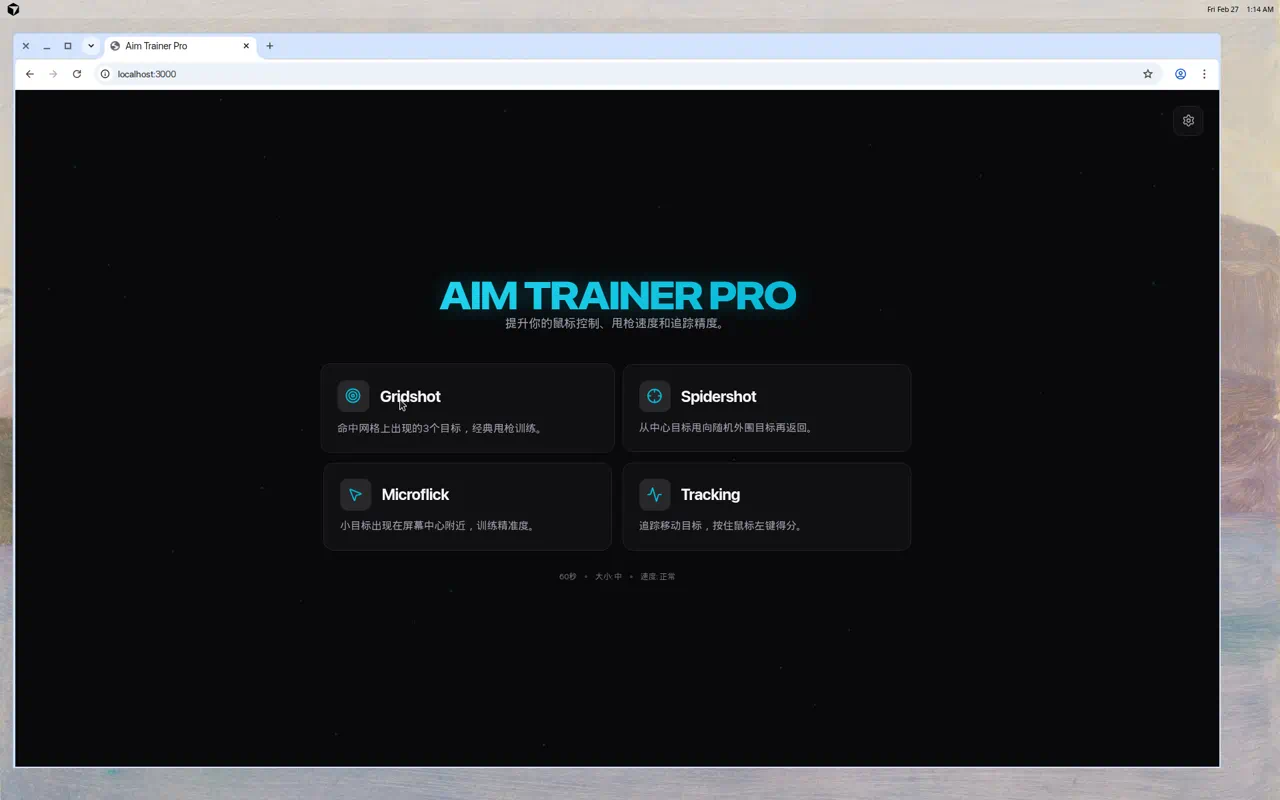
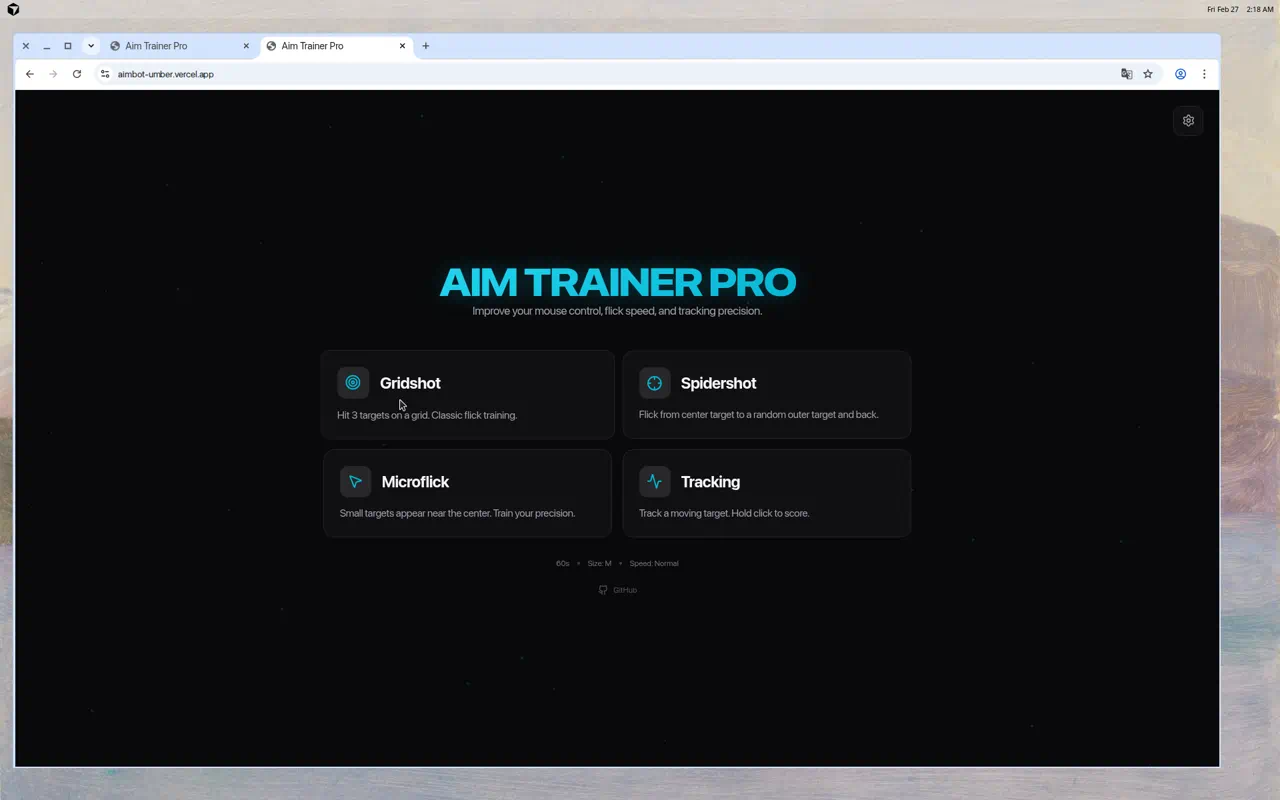
docs: 更新 README — 添加 FPS 3D 地图/准星截图，补充在线体验链接
- 用最新截图替换所有旧截图（从 Vercel 线上版截取）
- 新增 FPS 3D 模式、5 张地图、准星自定义、灵敏度的介绍
- 新增竞技场/霓虹地图对比截图、FPS 3D 设置面板截图
- 新增中英文界面对比截图
- 添加在线体验链接 aimbot-umber.vercel.app
- 更新技术栈（添加 Three.js）和项目结构（添加新文件）
- 添加 Star 呼吁

diff --git a/README.md b/README.md
@@ -2,11 +2,13 @@
 
 # 🎯 Aim Trainer Pro
 
-**一款高性能、高度可定制的网页端鼠标瞄准训练器**
+**高性能、高度可定制的网页端鼠标瞄准训练器**
 
 提升你的鼠标控制、甩枪速度和追踪精度。
 
-React + TypeScript + Vite + Tailwind CSS + Canvas
+React + TypeScript + Vite + Three.js + Canvas
+
+[🎮 在线体验](https://aimbot-umber.vercel.app/) · [📦 GitHub](https://github.com/DanZai233/AIMBOT)
 
 </div>
 
@@ -16,7 +18,7 @@ React + TypeScript + Vite + Tailwind CSS + Canvas
 
 ## ✨ 功能特性
 
-### 🎮 四种训练模式
+### 🎮 五种训练模式
 
 | 模式 | 说明 |
 |------|------|
@@ -24,6 +26,43 @@ React + TypeScript + Vite + Tailwind CSS + Canvas
 | **Spidershot** | 从中心目标甩向随机外围目标再返回 |
 | **Microflick** | 小目标出现在屏幕中心附近，训练微调精度 |
 | **Tracking** | 追踪移动目标，按住鼠标左键持续得分 |
+| **FPS 3D** 🆕 | 真实 FPS 视角，准星固定，移动视角瞄准 3D 空间中的目标 |
+
+### 🕹 FPS 3D 模式
+
+真正的第一人称射击视角 —— 使用 Three.js + Pointer Lock API，准星锁定在屏幕中心，鼠标移动旋转视角。
+
+**5 张 3D 地图：**
+
+| 地图 | 说明 |
+|------|------|
+| **虚空 (Void)** | 暗色虚空 + 网格地面 + 漂浮尘埃 |
+| **竞技场 (Arena)** | 封闭室内训练场 + 墙壁/天花板/柱子 |
+| **赛博 (Cyber)** | 霓虹城市废墟 + 建筑剪影 + 金属地面 |
+| **户外 (Outdoor)** | 蓝天绿地 + 远山剪影 + 石柱靶场 |
+| **霓虹 (Neon)** | 暗室 + 多彩霓虹光管 + 反射地面 |
+
+<div align="center">
+<table>
+<tr>
+<td><img src="docs/screenshots/fps3d-arena.webp" alt="竞技场地图" width="100%"/></td>
+<td><img src="docs/screenshots/fps3d-neon.webp" alt="霓虹地图" width="100%"/></td>
+</tr>
+<tr>
+<td align="center"><b>竞技场 · 封闭室内</b></td>
+<td align="center"><b>霓虹 · 多彩光管</b></td>
+</tr>
+</table>
+</div>
+
+**准星自定义：**
+
+- 5 种样式：十字 / 圆点 / 圆环 / 十字+点 / T 形
+- 6 项微调：粗细 / 上下间距 / 左右间距 / 线长 / 不透明度 / 中心点大小
+- 灵敏度：0.1x ~ 5.0x 可调
+- 设置面板内实时预览
+
+![FPS 3D 设置](docs/screenshots/settings-fps3d.webp)
 
 ### ⚙ 丰富的配置项
 
@@ -35,10 +74,10 @@ React + TypeScript + Vite + Tailwind CSS + Canvas
 
 ![设置面板](docs/screenshots/settings-panel.webp)
 
-### 🎨 个性化定制
+### 🎨 个性化定制（2D 模式）
 
 - **目标形状**：圆形 / 菱形 / 星形 / 六边形 / 三角形
-- **光标样式**：十字线 / 圆点 / 圆环 / 精确十字
+- **光标样式**：十字线 / 圆点 / 圆环 / 精确十字（CSS SVG 零延迟）
 - **主题配色**：青 / 红 / 绿 / 紫 / 橙（5 种配色方案）
 - **背景主题**：暗黑 / 网格 / 渐变 / 星空
 
@@ -55,33 +94,43 @@ React + TypeScript + Vite + Tailwind CSS + Canvas
 </table>
 </div>
 
-### ⚡ 性能优化
+### 🌐 多语言支持
 
-- **零延迟光标**：使用 CSS SVG 自定义光标，由操作系统原生渲染
-- **DPI 感知**：适配 Retina 等高分屏，清晰锐利
-- **轻量渲染**：替代 `shadowBlur` 的高效发光方案
-- **60fps 流畅**：优化的 Canvas 渲染管线
+中文 / English 一键切换，所有界面文本实时翻译。
+
+<div align="center">
+<table>
+<tr>
+<td><img src="docs/screenshots/menu-fps3d.webp" alt="FPS 3D 模式卡片" width="100%"/></td>
+<td><img src="docs/screenshots/menu-english.webp" alt="英文界面" width="100%"/></td>
+</tr>
+<tr>
+<td align="center"><b>中文 · FPS 3D 模式</b></td>
+<td align="center"><b>English · 完整翻译</b></td>
+</tr>
+</table>
+</div>
 
 ### 📊 详细的成绩统计
 
-每局结束后展示完整的训练报告：
-
 - 等级评定（S / A / B / C / D）
-- 最终得分、精准度百分比
-- 命中 / 失误次数
-- 训练时长
+- 最终得分、精准度、命中/失误
 - 数字递增动画效果
 
 ![结果界面](docs/screenshots/results-screen.webp)
 
+### ⚡ 性能优化
+
+- **零延迟光标**：CSS SVG 自定义光标，由操作系统原生渲染
+- **DPI 感知**：适配 Retina 高分屏
+- **轻量渲染**：高效发光方案替代 `shadowBlur`
+- **60fps 流畅**：优化的 Canvas / WebGL 渲染管线
+
 ### 🎬 动效细节
 
 - 主菜单粒子连线背景动画
-- 目标出现时的弹性缩放动画
-- 命中目标时的粒子爆炸效果
-- 得分浮动弹出（+100 / -20）
-- 失误时屏幕边缘红色闪光
-- 设置面板平滑滑入/滑出
+- 目标弹性缩放 + 命中粒子爆炸 + 得分弹出
+- 失误红色闪光 + 设置面板平滑动画
 - 所有设置自动保存到 `localStorage`
 
 ## 🚀 快速开始
@@ -102,6 +151,8 @@ npm run dev
 
 打开浏览器访问 http://localhost:3000
 
+或直接体验在线版：**https://aimbot-umber.vercel.app/**
+
 ## 📦 可用命令
 
 | 命令 | 说明 |
@@ -119,8 +170,9 @@ npm run dev
 | **React 19** | UI 框架 |
 | **TypeScript** | 类型安全 |
 | **Vite 6** | 构建工具 + 开发服务器 |
+| **Three.js** | 3D 渲染引擎（FPS 模式） |
+| **HTML5 Canvas** | 2D 游戏渲染引擎 |
 | **Tailwind CSS v4** | 样式系统 |
-| **HTML5 Canvas** | 游戏渲染引擎 |
 | **Motion** | React 组件动画 |
 | **Lucide React** | 图标库 |
 
@@ -131,15 +183,22 @@ src/
 ├── main.tsx                  # 应用入口
 ├── App.tsx                   # 根组件（状态机：菜单 → 游戏 → 结果）
 ├── types.ts                  # 类型定义 + 配置常量
+├── i18n.ts                   # 中英文翻译模块
 ├── index.css                 # Tailwind 导入 + 全局样式
 ├── lib/
-│   └── GameEngine.ts         # Canvas 游戏引擎（渲染/物理/输入）
+│   ├── GameEngine.ts         # 2D Canvas 游戏引擎
+│   └── FPS3DEngine.ts        # 3D Three.js 游戏引擎
 └── components/
     ├── MainMenu.tsx           # 模式选择 + 粒子背景
-    ├── GameScreen.tsx         # 游戏画面 + HUD
+    ├── GameScreen.tsx         # 2D 游戏画面 + HUD
+    ├── FPS3DScreen.tsx        # 3D FPS 游戏画面 + 准星
     ├── ResultsScreen.tsx      # 成绩统计 + 等级评定
     └── SettingsPanel.tsx      # 设置面板（抽屉式）
 ```
+
+## ⭐ Star
+
+如果觉得这个项目对你有帮助，欢迎给个 Star 支持一下！
 
 ## 📄 License
 
